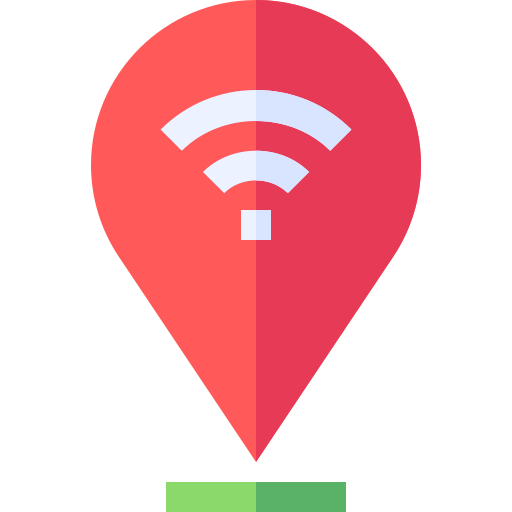
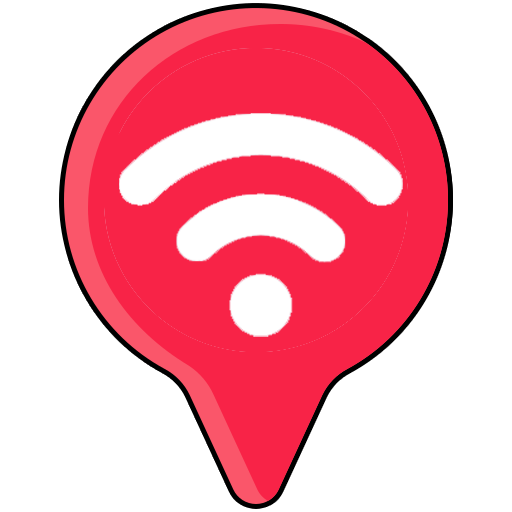
update map

diff --git a/resources/views/mikapi/map/index.blade.php b/resources/views/mikapi/map/index.blade.php
@@ -55,7 +55,8 @@
             <div class="widget-content widget-content-area br-8">
                 <div class="card">
                     <div class="card-header">
-                        <h5><i class="fas fa-map-marked-alt me-1"></i>Map Data Customer</h5>
+                        <h5><i class="fas fa-map-marked-alt me-1"></i>Map Data Customer <button type="button"
+                                class="btn btn-sm btn-secondary" id="refresh_map">Refresh</button></h5>
                     </div>
                     <div class="card-body">
                         <div id="map2" style="width: 100%; height: 500px;"></div>
@@ -86,12 +87,17 @@
                 get_data()
             })
 
+            $('#refresh_map').click(function() {
+                get_data()
+            })
+
         })
         const url_index = "{{ route('mikapi.maps.index') }}"
         const url_index_api = "{{ route('api.mikapi.maps.index') }}" + param_router
         const image_online = "{{ asset('images/default/map_online.png') }}"
         const image_offline = "{{ asset('images/default/map_offline.png') }}"
-        const image_odp = "{{ asset('images/default/odp.webp') }}"
+        const image_detail = "{{ asset('images/default/map_detail.png') }}"
+        const image_odp = "{{ asset('images/default/odp.png') }}"
 
         var id = 0
         var perpage = 50
@@ -104,13 +110,19 @@
         var odp_markers = [];
         var online_icon = L.icon({
             iconUrl: image_online,
-            iconSize: [42, 42], // [width, height]
+            iconSize: [32, 32], // [width, height]
             iconAnchor: [16, 32], // [horizontal center, bottom]
         });
 
         var offline_icon = L.icon({
             iconUrl: image_offline,
-            iconSize: [42, 42], // [width, height]
+            iconSize: [32, 32], // [width, height]
+            iconAnchor: [16, 32], // [horizontal center, bottom]
+        });
+
+        var detail_icon = L.icon({
+            iconUrl: image_detail,
+            iconSize: [46, 46], // [width, height]
             iconAnchor: [16, 32], // [horizontal center, bottom]
         });
 
@@ -140,8 +152,9 @@
             data.forEach(element => {
                 try {
                     if (element.lat != null && element.long != null) {
+                        let mark_icon = element.router_active ? online_icon : offline_icon
                         var mark = L.marker([element.lat, element.long], {
-                            icon: element.router_active ? online_icon : offline_icon
+                            icon: mark_icon
                         }).addTo(map2).bindPopup(
                             `Name : ${element.name}
                             <br>ID : ${element.number_id}
@@ -154,8 +167,16 @@
                             <br>MAC Router : ${element.mac || '-'}
                             <br>Secret Username : ${element.secret_username || '-'}
                             <br>Secret Password : ${element.secret_password || '-'}
+                            <br>Router Status : <span class="badge badge-${element.router_active ? 'success' : 'danger'}">${element.router_active ? 'Online' : 'Offline'}</span>
+                            <br>Router Uptime : ${element.router_uptime}
                         `
                         );
+                        mark.on('click', function() {
+                            this.setIcon(detail_icon);
+                        });
+                        mark.on('popupclose', function() {
+                            this.setIcon(mark_icon);
+                        });
                         markers.push(mark);
                         map2.setView([element.lat, element.long], 11);
                         drawLine([element.odp.lat, element.odp.long], [element.lat, element.long])

diff --git a/resources/views/mikapi/customer/index.blade.php b/resources/views/mikapi/customer/index.blade.php
@@ -177,7 +177,8 @@
         const url_index_api = "{{ route('api.mikapi.customers.index') }}"
         const image_online = "{{ asset('images/default/map_online.png') }}"
         const image_offline = "{{ asset('images/default/map_offline.png') }}"
-        const image_odp = "{{ asset('images/default/odp.webp') }}"
+        const image_detail = "{{ asset('images/default/map_detail.png') }}"
+        const image_odp = "{{ asset('images/default/odp.png') }}"
         const url_index_odp = "{{ route('api.mikapi.odps.index') }}" + param_router
         const url_index_ppp = "{{ route('api.mikapi.ppp.secrets.index') }}" + param_router
 
@@ -236,13 +237,19 @@
         var odp_markers = [];
         var online_icon = L.icon({
             iconUrl: image_online,
-            iconSize: [42, 42], // [width, height]
+            iconSize: [32, 32], // [width, height]
             iconAnchor: [16, 32], // [horizontal center, bottom]
         });
 
         var offline_icon = L.icon({
             iconUrl: image_offline,
-            iconSize: [42, 42], // [width, height]
+            iconSize: [32, 32], // [width, height]
+            iconAnchor: [16, 32], // [horizontal center, bottom]
+        });
+
+        var detail_icon = L.icon({
+            iconUrl: image_detail,
+            iconSize: [46, 46], // [width, height]
             iconAnchor: [16, 32], // [horizontal center, bottom]
         });
 
@@ -272,8 +279,9 @@
             data.forEach(element => {
                 try {
                     if (element.lat != null && element.long != null) {
+                        let mark_icon = element.status == 'active' ? online_icon : offline_icon
                         var mark = L.marker([element.lat, element.long], {
-                            icon: element.status == 'active' ? online_icon : offline_icon
+                            icon: mark_icon
                         }).addTo(map2).bindPopup(
                             `Name : ${element.name}
                             <br>ID : ${element.number_id}
@@ -288,6 +296,12 @@
                             <br>Secret Password : ${element.secret_password || '-'}
                         `
                         );
+                        mark.on('click', function() {
+                            this.setIcon(detail_icon);
+                        });
+                        mark.on('popupclose', function() {
+                            this.setIcon(mark_icon);
+                        });
                         markers.push(mark);
                         map2.setView([element.lat, element.long], 9);
                     }

diff --git a/app/Http/Controllers/Api/Mikapi/MapsController.php b/app/Http/Controllers/Api/Mikapi/MapsController.php
@@ -26,17 +26,28 @@ class MapsController extends Controller
                 'user_id'   => $user_id,
                 'router_id' => $router_id
             ])->get();
-        foreach ($data as $customer) {
-            $isActive = collect($active_ppp)->contains(function ($ppp) use ($customer) {
-                if (empty($ppp['name']) && empty($ppp['remote-address'])) {
-                    return false;
-                }
-                return ($ppp['name'] === $customer->secret_username) ||
-                    (($ppp['remote-address'] ?? '') === $customer->ip);
-            });
-            $customer->router_active = $isActive;
-            $new_data[] = $customer;
+
+        if (empty($active_ppp)) {
+            foreach ($data as $customer) {
+                $customer->router_active = false;
+                $customer->router_uptime = '0s';
+                $new_data[] = $customer;
+            }
+        } else {
+            foreach ($data as $customer) {
+                $matchedPpp = collect($active_ppp)->first(function ($ppp) use ($customer) {
+                    if (empty($ppp['name']) && empty($ppp['address'])) {
+                        return false;
+                    }
+                    return ($ppp['name'] === $customer->secret_username) ||
+                        (($ppp['address'] ?? '') === $customer->ip);
+                });
+                $customer->router_active = !is_null($matchedPpp);
+                $customer->router_uptime = dtm_new($matchedPpp['uptime'] ?? '0s');
+                $new_data[] = $customer;
+            }
         }
-        return CustomerResource::collection($new_data)->additional(['xx' => $active_ppp]);
+
+        return CustomerResource::collection($new_data);
     }
 }

diff --git a/resources/views/mikapi/odp/index.blade.php b/resources/views/mikapi/odp/index.blade.php
@@ -127,7 +127,7 @@
         })
         const url_index = "{{ route('mikapi.odps.index') }}"
         const url_index_api = "{{ route('api.mikapi.odps.index') }}"
-        const image_odp = "{{ asset('images/default/odp.webp') }}"
+        const image_odp = "{{ asset('images/default/odp.png') }}"
         var id = 0
         var perpage = 50
         var state_action = 'add'
